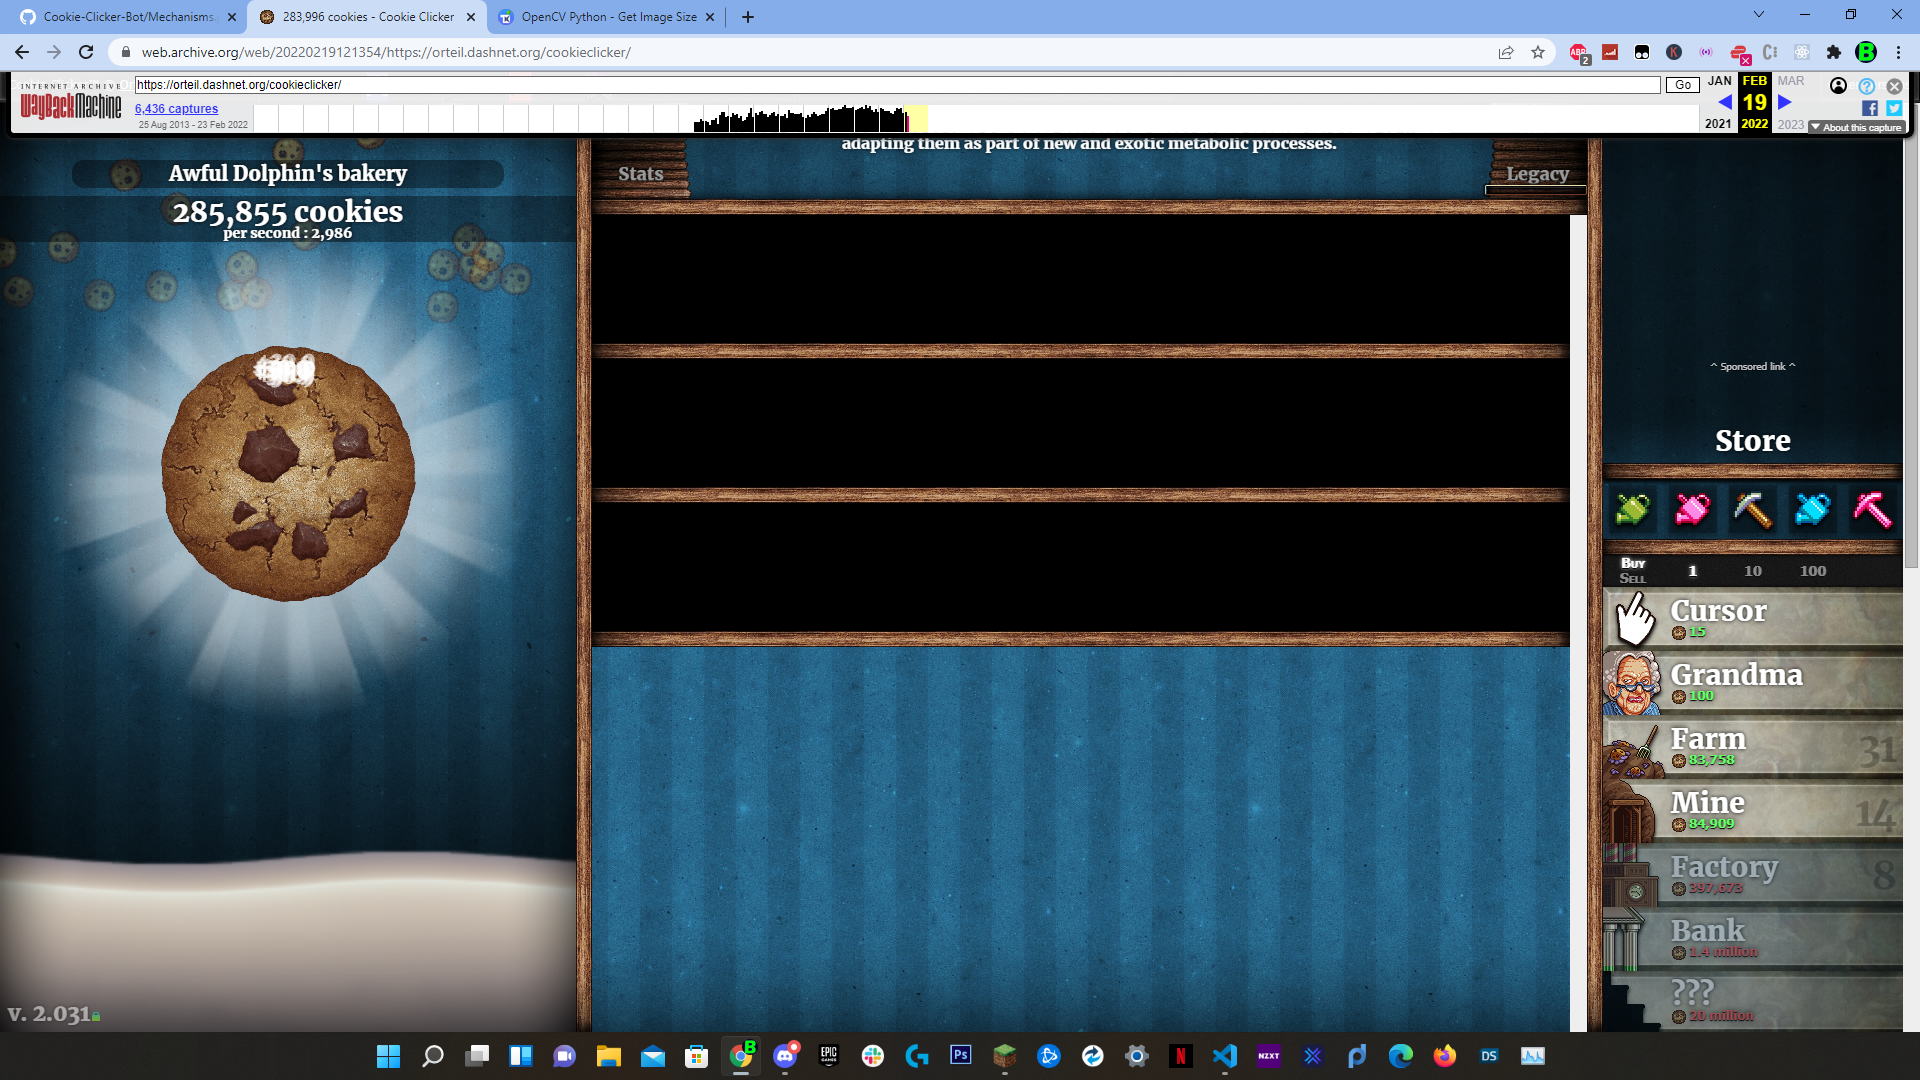
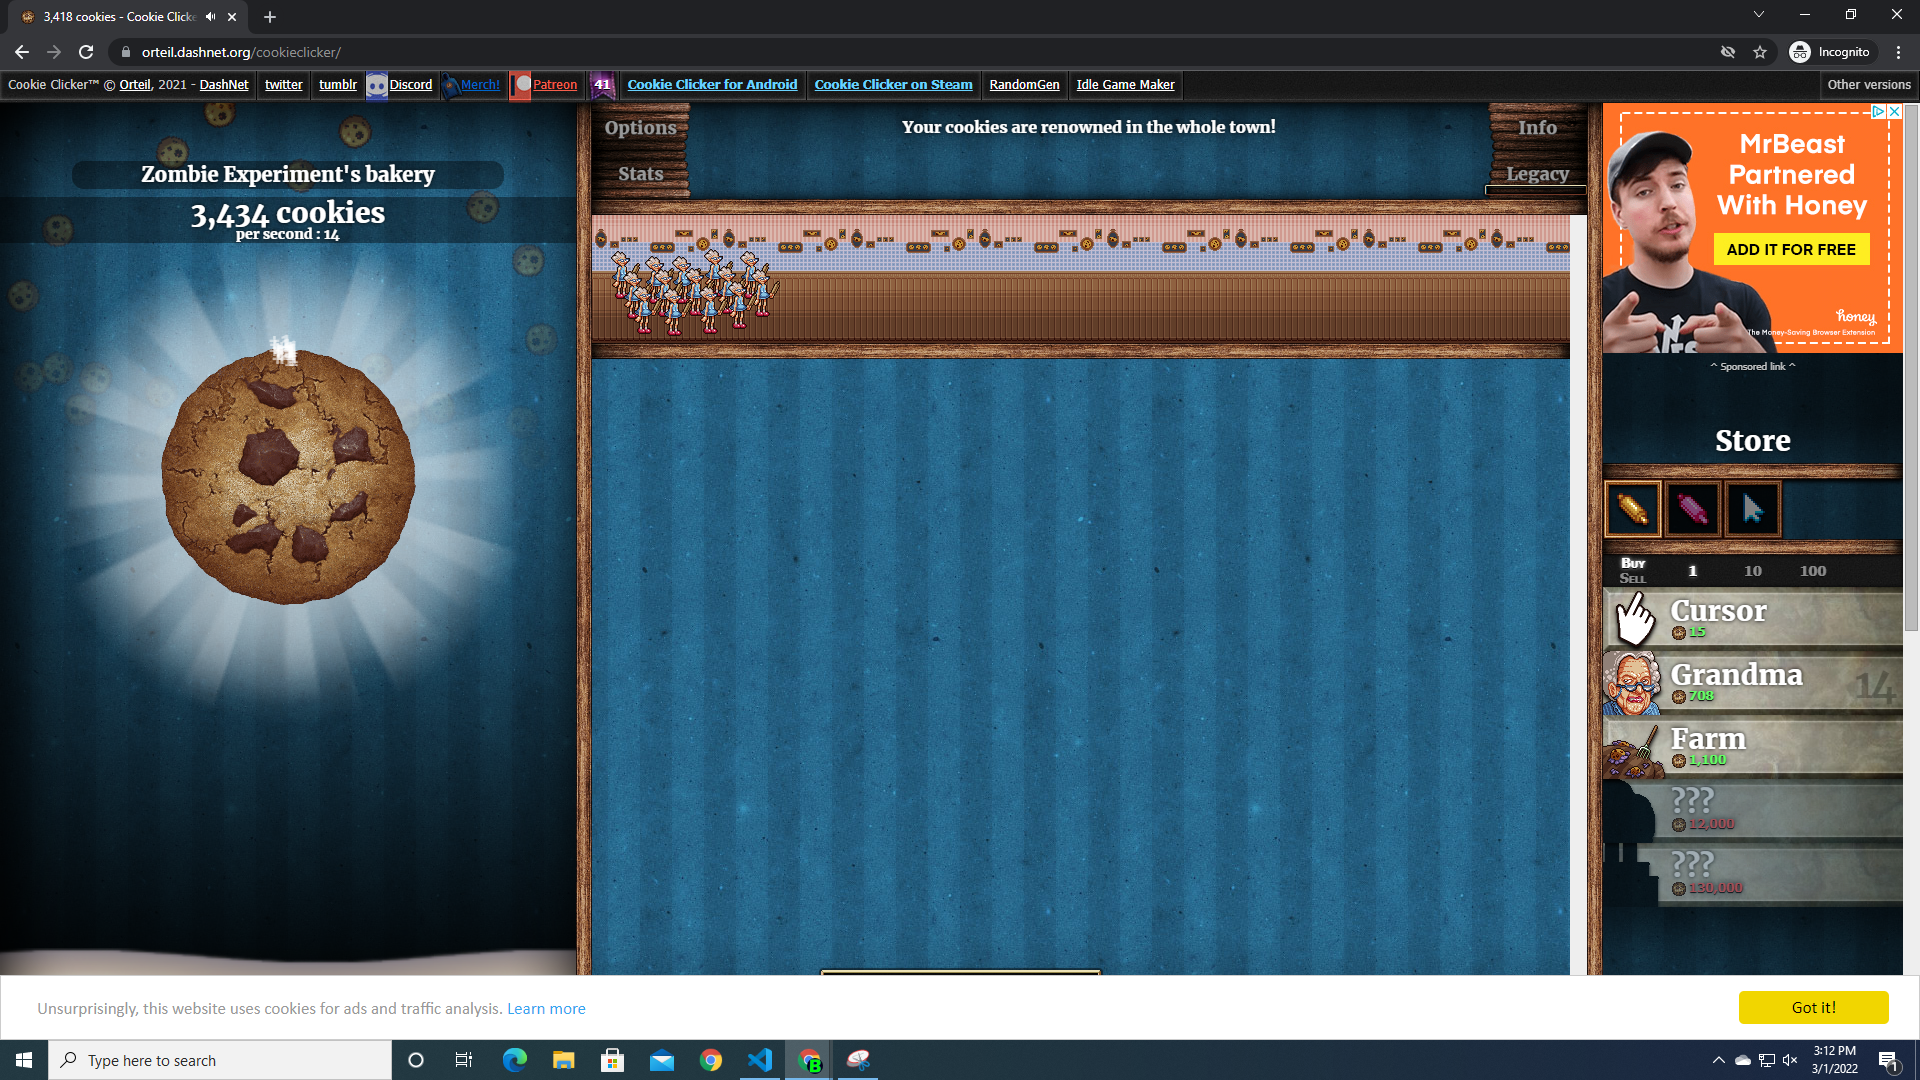
Update

diff --git a/tools/Bot.py b/tools/Bot.py
@@ -16,6 +16,7 @@ class Bot:
         self.is_active = True
         self.mines = 0
         self.farms = 0
+        self.grandmas = 0
     def bot_sequence(self):
         self.is_active = True
         while True:
@@ -36,18 +37,27 @@ class Bot:
                     except:
                         pass
 
-                self.check_store(screen, template='./resources/plastic_mouse.png', threshold=0.95)
+                self.check_store(screen, template='./resources/plastic_mouse.png', threshold=1)
+                self.check_store(screen, template='./resources/reinforced_index_finger.png', threshold=1)
 
                 mechanisms.take_screenshot(self.monitor, './tools/ss_cache/screen.png')
                 screen = cv2.imread('./tools/ss_cache/screen.png')
 
                 if self.mines <= 5:
-                    plastic_mouse_available = mechanisms.locate_object_template_match('./resources/plastic_mouse.png', 0.95, screen)
-                    if plastic_mouse_available == None:
-                        mine_available = self.check_store(screen, './resources/Mine.png', 0.97)
-                        if mine_available == True:
-                            self.mines +=1
-                            time.sleep(0.01)
+                    mine_available = self.check_store(screen, './resources/Mine.png', 0.97)
+                    if mine_available == True:
+                        self.mines +=1
+                        time.sleep(0.01)
+                
+                if self.grandmas <= 10:
+                    grandma_loc = mechanisms.locate_object_template_match('./resources/grandma.png', threshold=1, screen=screen)
+                    if grandma_loc != None:
+                        if len(grandma_loc) > 0:
+                            try:
+                                mechanisms.click_object(amount=1, location=grandma_loc, interval=0, monitor=self.monitor)
+                                self.grandmas += 1
+                            except:
+                                pass
 
                 mechanisms.take_screenshot(self.monitor, './tools/ss_cache/screen.png')
                 screen = cv2.imread('./tools/ss_cache/screen.png')
@@ -80,9 +90,6 @@ class Bot:
                 pass
 
     def check_farm(self, screen):
-        dont_check = mechanisms.locate_object_template_match('./resources/120_per_second.png', 0.95, screen)
-        factory_unlocked = mechanisms.locate_object_template_match('./resources/dont_check_farm.png', 0.95, screen)
-        factory_purchase = mechanisms.locate_object_template_match('./resources/Factory.png', 0.95, screen)
         plastic_mouse_available = mechanisms.locate_object_template_match('./resources/plastic_mouse.png', 0.95, screen)
         if plastic_mouse_available == None:
             farm_loc = mechanisms.locate_object_template_match('./resources/Farm.png', 0.96, screen)
@@ -101,8 +108,6 @@ class Bot:
         if obj != None:
             try:
                 mechanisms.click_object(obj, 1, 0, self.monitor)
-                return True
             except:
-                return False
-        return False
+                pass
 
